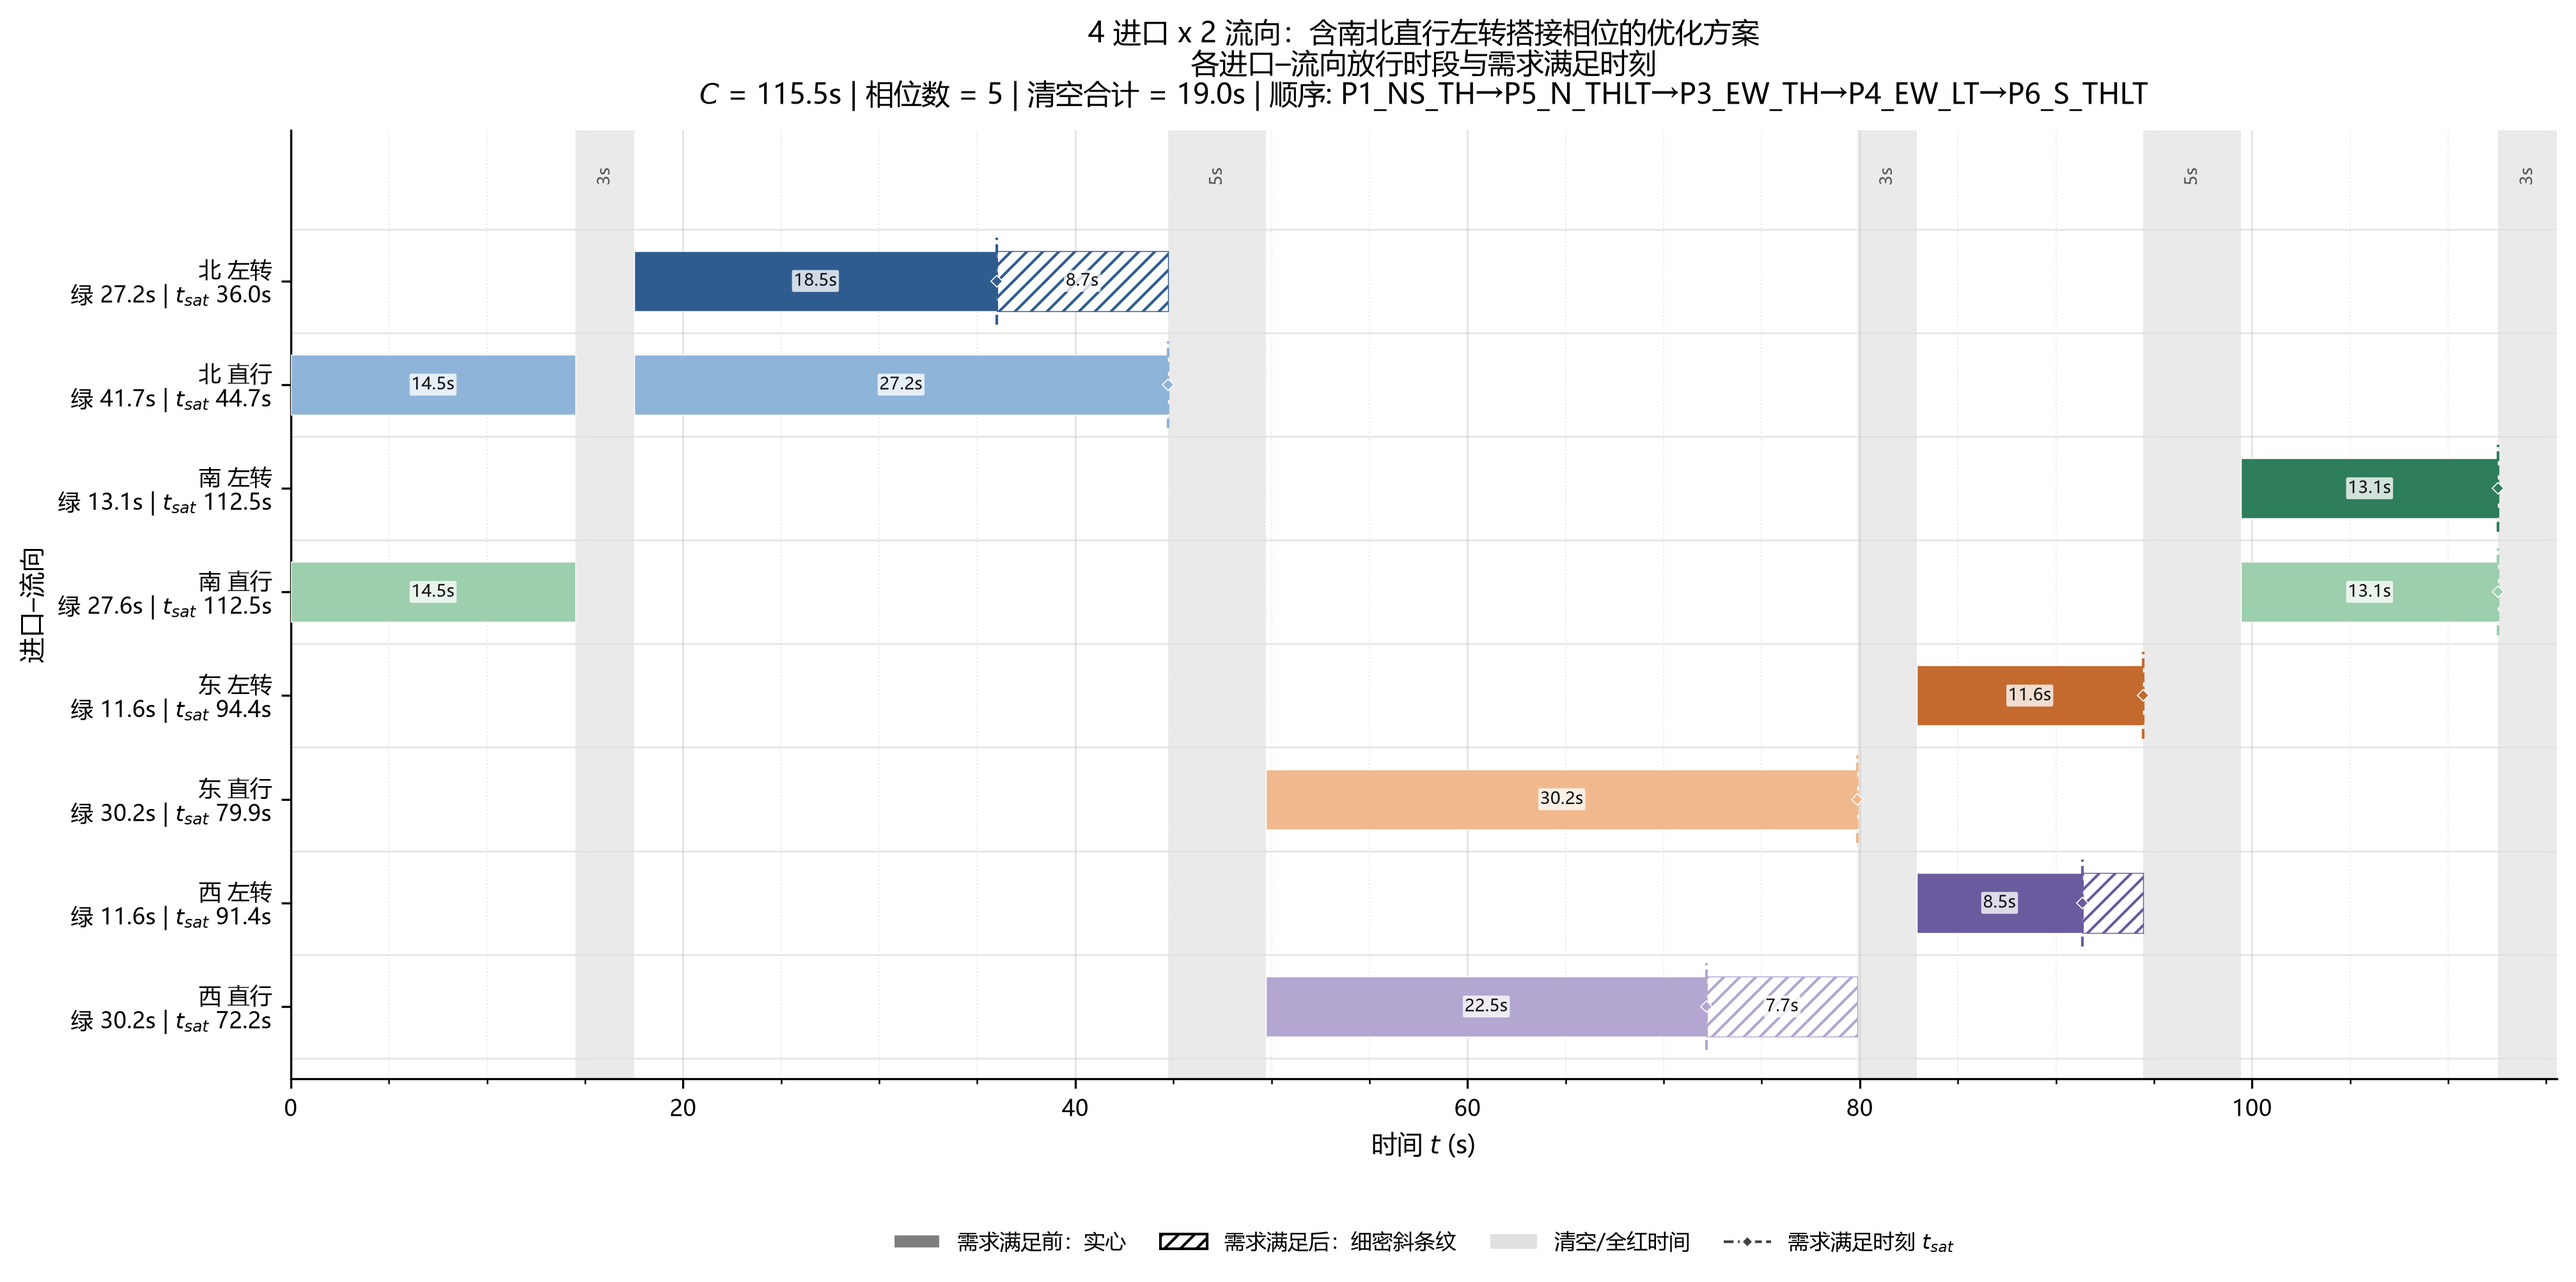
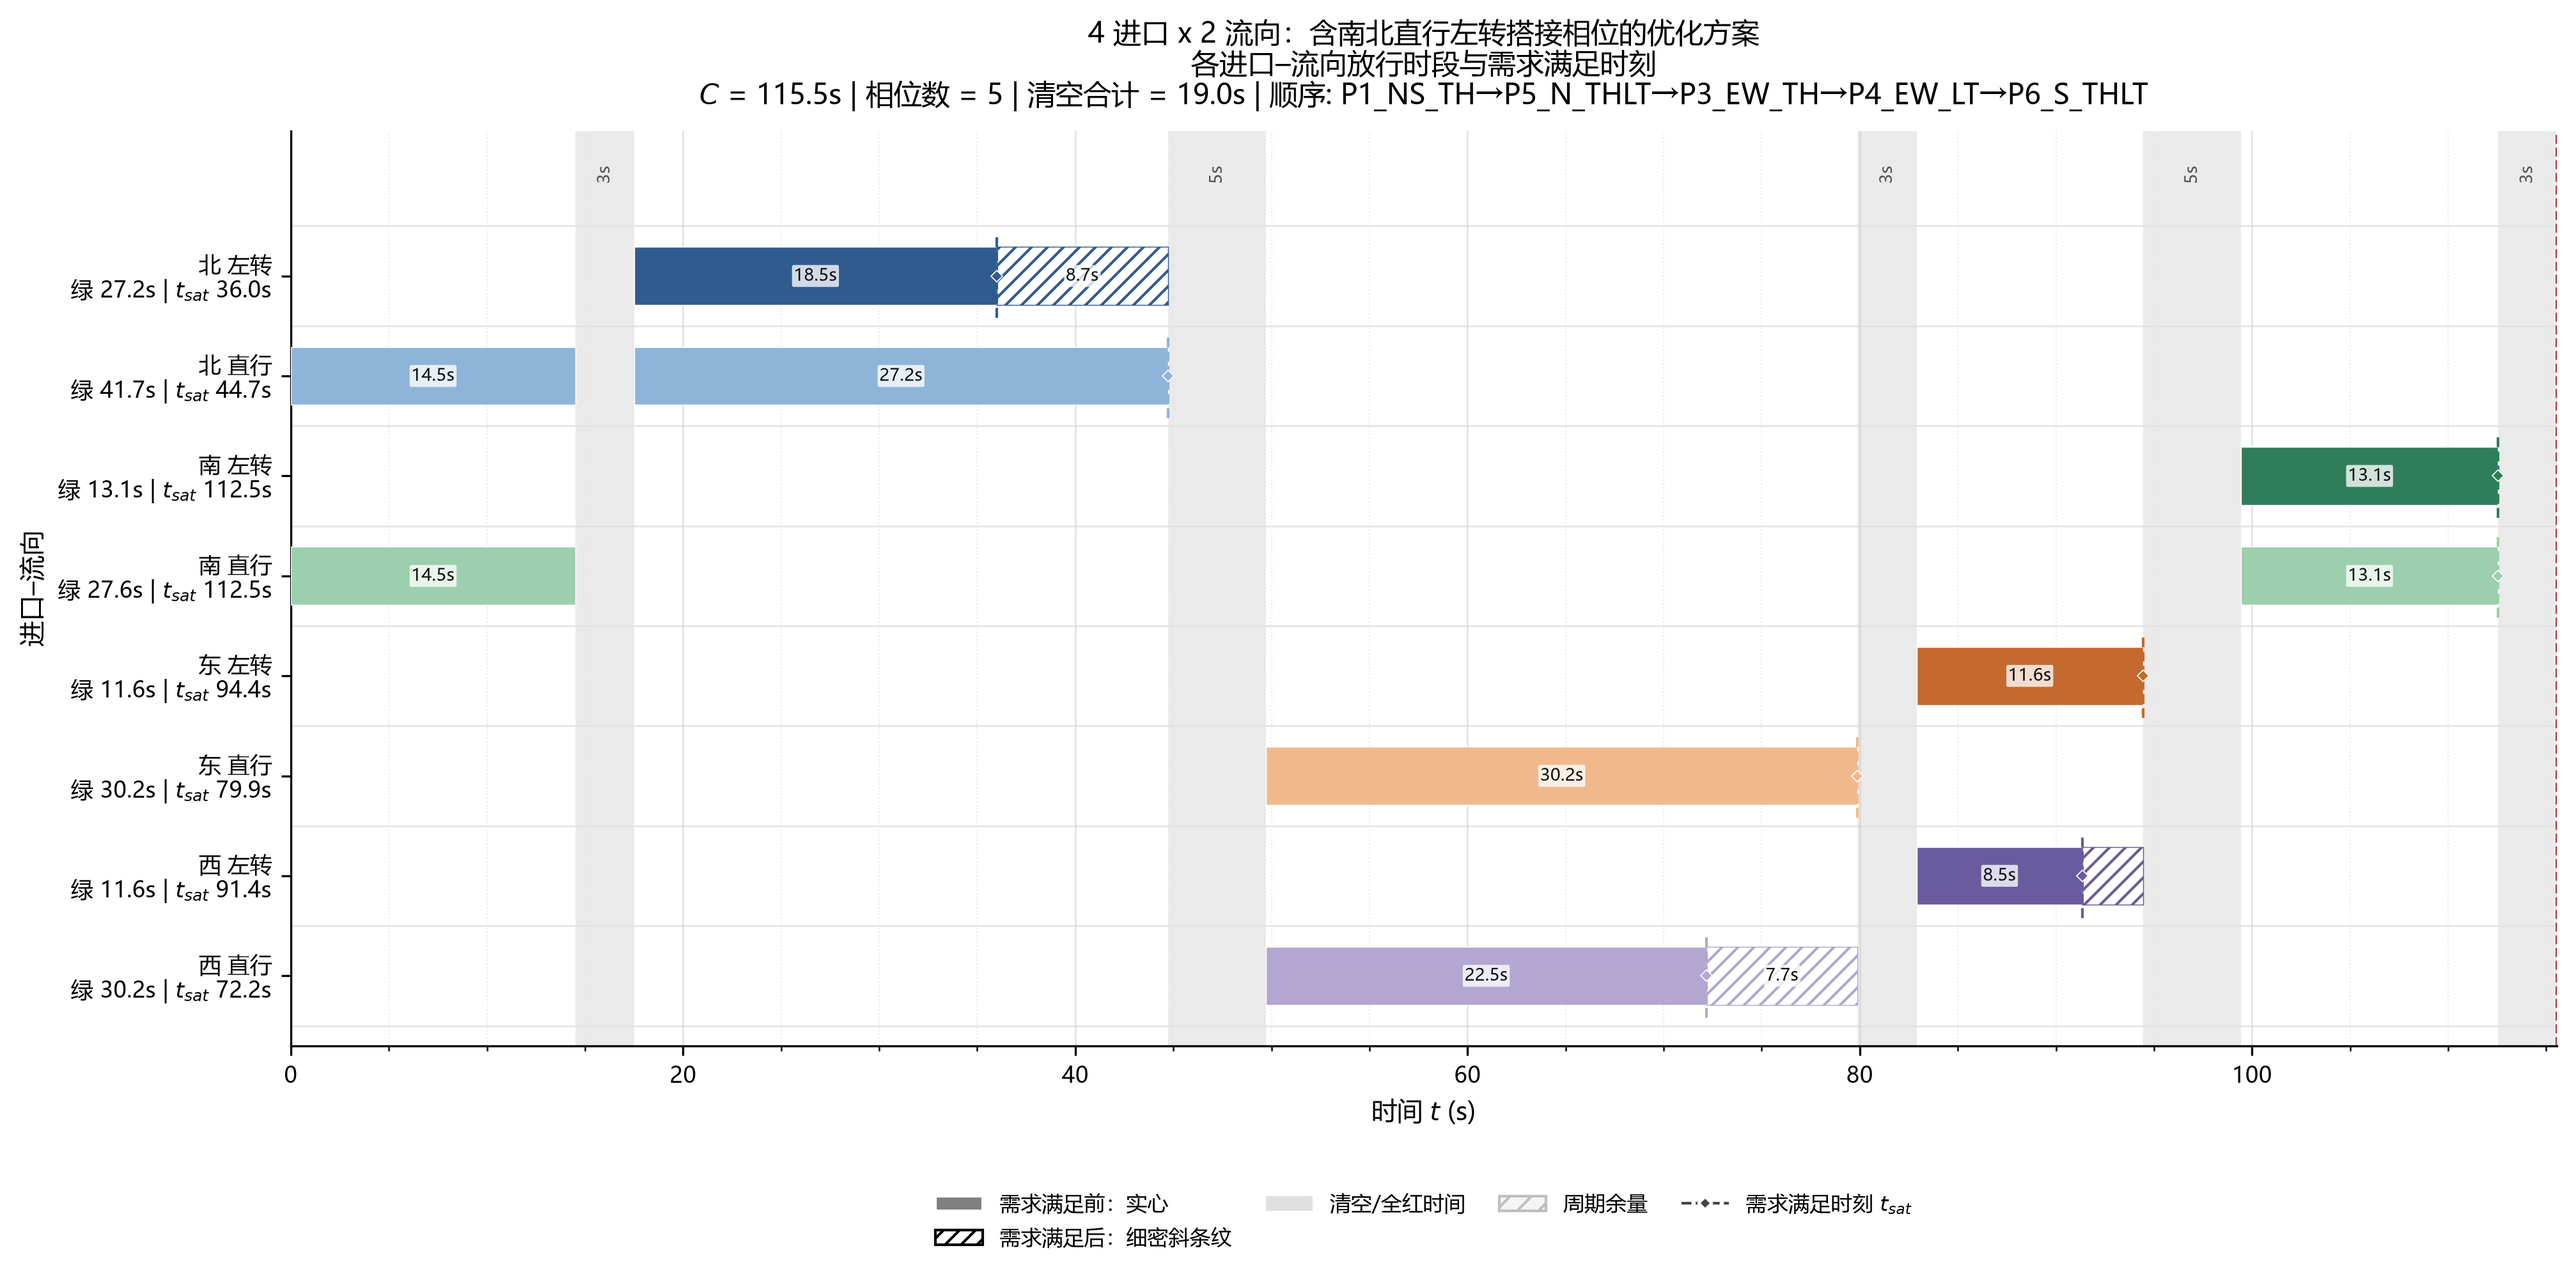
Improve variable naming in four-approach example

diff --git a/examples/four_approach_overlap_case.py b/examples/four_approach_overlap_case.py
@@ -9,7 +9,7 @@
     P4_EW_LT : 东西左转对称放行
     P5_N_THLT: 北进口直行 + 左转搭接（单进口同时放行直行与左转）
     P6_S_THLT: 南进口直行 + 左转搭接
-- 北进口需求不均衡：直行 600 veh/h，左转 250 veh/h；
+- 北进口需求不均衡：直行 650 veh/h，左转 240 veh/h；
 - 所有被选相位最小绿灯 11 s（> 10 s）。
 - 目标：字典序最小化周期（第一目标）。
 
@@ -36,135 +36,229 @@ from signal_timing.plotting import (
 )
 
 
-def build_data(include_overlap: bool = True) -> IntersectionData:
-    """构造 4 进口 x 2 流向案例；include_overlap=False 时只保留 4 个对称相位。"""
-    demands = {
+def build_intersection_data(
+    include_overlap_phases: bool = True,
+) -> IntersectionData:
+    """构造 4 进口 x 2 流向案例。
+
+    include_overlap_phases=False 时只保留 4 个对称相位。
+    """
+    movement_demands = {
         "N_left": 240.0, "N_thr": 650.0,   # 北进口直行/左转不均衡
         "S_left": 170.0, "S_thr": 430.0,
         "E_left": 150.0, "E_thr": 470.0,   # 东进口直行偏大、左转偏小
         "W_left": 110.0, "W_thr": 350.0,   # 西进口整体需求较低
     }
-    movements = {mid: Movement(mid, q) for mid, q in demands.items()}
-    c_thr, c_left = 1800.0, 1500.0  # 直行/左转饱和流率 veh/h
-
-    phases = {
-        "P1_NS_TH": Phase("P1_NS_TH", {"N_thr": c_thr, "S_thr": c_thr}),
-        "P2_NS_LT": Phase("P2_NS_LT", {"N_left": c_left, "S_left": c_left}),
-        "P3_EW_TH": Phase("P3_EW_TH", {"E_thr": c_thr, "W_thr": c_thr}),
-        "P4_EW_LT": Phase("P4_EW_LT", {"E_left": c_left, "W_left": c_left}),
+    movements_by_id = {
+        movement_id: Movement(movement_id, demand)
+        for movement_id, demand in movement_demands.items()
     }
-    if include_overlap:
-        phases["P5_N_THLT"] = Phase(
-            "P5_N_THLT", {"N_thr": c_thr, "N_left": c_left}
+
+    through_saturation_flow = 1800.0   # 直行饱和流率 veh/h
+    left_turn_saturation_flow = 1500.0  # 左转饱和流率 veh/h
+
+    candidate_phases = {
+        "P1_NS_TH": Phase(
+            "P1_NS_TH",
+            {"N_thr": through_saturation_flow, "S_thr": through_saturation_flow},
+        ),
+        "P2_NS_LT": Phase(
+            "P2_NS_LT",
+            {"N_left": left_turn_saturation_flow, "S_left": left_turn_saturation_flow},
+        ),
+        "P3_EW_TH": Phase(
+            "P3_EW_TH",
+            {"E_thr": through_saturation_flow, "W_thr": through_saturation_flow},
+        ),
+        "P4_EW_LT": Phase(
+            "P4_EW_LT",
+            {"E_left": left_turn_saturation_flow, "W_left": left_turn_saturation_flow},
+        ),
+    }
+
+    if include_overlap_phases:
+        candidate_phases["P5_N_THLT"] = Phase(
+            "P5_N_THLT",
+            {"N_thr": through_saturation_flow, "N_left": left_turn_saturation_flow},
         )
-        phases["P6_S_THLT"] = Phase(
-            "P6_S_THLT", {"S_thr": c_thr, "S_left": c_left}
+        candidate_phases["P6_S_THLT"] = Phase(
+            "P6_S_THLT",
+            {"S_thr": through_saturation_flow, "S_left": left_turn_saturation_flow},
         )
 
     # 同组相位间清空 3s，跨组 5s；所有有序对都定义，满足严格清空时间模式。
-    groups = {
+    phase_direction_groups = {
         "P1_NS_TH": "NS", "P2_NS_LT": "NS",
         "P5_N_THLT": "NS", "P6_S_THLT": "NS",
         "P3_EW_TH": "EW", "P4_EW_LT": "EW",
     }
-    lost = {}
-    for i in phases:
-        for j in phases:
-            if i != j:
-                lost[(i, j)] = 3.0 if groups[i] == groups[j] else 5.0
+    clearance_times = {}
+    for from_phase_id in candidate_phases:
+        for to_phase_id in candidate_phases:
+            if from_phase_id == to_phase_id:
+                continue
+            same_direction_group = (
+                phase_direction_groups[from_phase_id]
+                == phase_direction_groups[to_phase_id]
+            )
+            clearance_times[(from_phase_id, to_phase_id)] = (
+                3.0 if same_direction_group else 5.0
+            )
 
     return IntersectionData(
-        movements=movements,
-        phases=phases,
-        lost_time=lost,
+        movements=movements_by_id,
+        phases=candidate_phases,
+        lost_time=clearance_times,
         g_min=11.0,
         c_min=40.0,
         c_max=180.0,
     )
 
 
-def solve_case(include_overlap: bool):
-    data = build_data(include_overlap=include_overlap)
-    opt = LexicographicOptimizer(data, mip_rel_gap=0.001, time_limit=60.0)
-    result = opt.solve(allow_cycle_reduction=True)
-    return data, result
+def solve_intersection_case(include_overlap_phases: bool):
+    """构造并求解一个案例，返回 (intersection_data, optimization_result)。"""
+    intersection_data = build_intersection_data(
+        include_overlap_phases=include_overlap_phases
+    )
+    optimizer = LexicographicOptimizer(
+        intersection_data,
+        mip_rel_gap=0.001,
+        time_limit=60.0,
+    )
+    optimization_result = optimizer.solve(allow_cycle_reduction=True)
+    return intersection_data, optimization_result
 
 
-def print_result(title, data, result):
-    if result.order is None:
-        raise RuntimeError("result.order 为 None；请确认 run_ordering=True")
-    order = list(result.order)
+def print_optimization_result(
+    case_title: str,
+    intersection_data: IntersectionData,
+    optimization_result,
+) -> None:
+    """打印某个方案的关键结果和逐流向需求满足情况。"""
+    if optimization_result.order is None:
+        raise RuntimeError("optimization_result.order 为 None；请确认 run_ordering=True")
+    phase_order = list(optimization_result.order)
 
     print("=" * 78)
-    print(title)
+    print(case_title)
     print("=" * 78)
-    print(f"最终周期 C = {result.cycle:.3f} s   （第一阶段保守 C* = {result.stage1_cycle:.3f} s）")
-    print(f"选中相位   = {result.selected}")
-    print(f"相位顺序   = {' → '.join(order)}")
-    print(f"相位数     = {result.phase_count}")
-    print(f"浪费服务   = {result.waste:.2f} veh/h·s")
-    print(f"后验校验   = {'通过' if result.verification.get('passed') else '失败'}")
+    print(
+        f"最终周期 C = {optimization_result.cycle:.3f} s   "
+        f"（第一阶段保守 C* = {optimization_result.stage1_cycle:.3f} s）"
+    )
+    print(f"选中相位   = {optimization_result.selected}")
+    print(f"相位顺序   = {' → '.join(phase_order)}")
+    print(f"相位数     = {optimization_result.phase_count}")
+    print(f"浪费服务   = {optimization_result.waste:.2f} veh/h·s")
+    print(
+        f"后验校验   = "
+        f"{'通过' if optimization_result.verification.get('passed') else '失败'}"
+    )
     print("-" * 78)
     print(f"{'相位':<12s} {'绿灯(s)':>10s} {'服务流向':<28s}")
-    for p in result.selected:
-        served = ", ".join(data.phases[p].capacity.keys())
-        print(f"{p:<12s} {result.greens[p]:>10.2f} {served:<28s}")
+    for phase_id in optimization_result.selected:
+        served_movement_ids = ", ".join(
+            intersection_data.phases[phase_id].capacity.keys()
+        )
+        print(
+            f"{phase_id:<12s} "
+            f"{optimization_result.greens[phase_id]:>10.2f} "
+            f"{served_movement_ids:<28s}"
+        )
     print("-" * 78)
-    print(f"{'流向':<10s} {'需求(veh)':>12s} {'提供(veh)':>12s} {'余量(veh)':>12s} {'状态':>6s}")
-    for mid in data.movements:
-        demand = data.movements[mid].demand * result.cycle / 3600.0
-        provided = (
+    print(
+        f"{'流向':<10s} {'需求(veh)':>12s} {'提供(veh)':>12s} "
+        f"{'余量(veh)':>12s} {'状态':>6s}"
+    )
+    for movement_id in intersection_data.movements:
+        cycle_demand_veh = (
+            intersection_data.movements[movement_id].demand
+            * optimization_result.cycle
+            / 3600.0
+        )
+        provided_service_veh = (
             sum(
-                data.phases[p].capacity.get(mid, 0.0) * result.greens[p]
-                for p in order
+                intersection_data.phases[phase_id].capacity.get(movement_id, 0.0)
+                * optimization_result.greens[phase_id]
+                for phase_id in phase_order
             )
             / 3600.0
         )
-        margin = provided - demand
+        demand_margin_veh = provided_service_veh - cycle_demand_veh
+        demand_satisfied = demand_margin_veh >= -1e-6
         print(
-            f"{mid:<10s} {demand:>12.3f} {provided:>12.3f} {margin:>+12.3f} "
-            f"{'满足' if margin >= -1e-6 else '不足':>6s}"
+            f"{movement_id:<10s} {cycle_demand_veh:>12.3f} "
+            f"{provided_service_veh:>12.3f} {demand_margin_veh:>+12.3f} "
+            f"{'满足' if demand_satisfied else '不足':>6s}"
         )
     print("=" * 78)
     print()
 
 
-def main():
+def main() -> None:
     warnings.simplefilter("ignore")
 
-    data_with, result_with = solve_case(include_overlap=True)
-    data_sym, result_sym = solve_case(include_overlap=False)
-
-    print_result("方案 A：4 个对称相位 + 2 个南北直行左转搭接相位", data_with, result_with)
-    print_result("方案 B：对照组，仅 4 个对称相位", data_sym, result_sym)
-
-    cycle_gap = result_sym.cycle - result_with.cycle
-    print(
-        f"对照结论：加入南北直行左转搭接相位后，周期从 "
-        f"{result_sym.cycle:.2f}s 降至 {result_with.cycle:.2f}s，"
-        f"降幅 {cycle_gap:.2f}s（{cycle_gap / result_sym.cycle * 100:.1f}%）。"
+    data_with_overlap, result_with_overlap = solve_intersection_case(
+        include_overlap_phases=True
+    )
+    data_symmetric_only, result_symmetric_only = solve_intersection_case(
+        include_overlap_phases=False
     )
 
-    sat_times = compute_satisfaction_times(data_with, result_with)
+    print_optimization_result(
+        "方案 A：4 个对称相位 + 2 个南北直行左转搭接相位",
+        data_with_overlap,
+        result_with_overlap,
+    )
+    print_optimization_result(
+        "方案 B：对照组，仅 4 个对称相位",
+        data_symmetric_only,
+        result_symmetric_only,
+    )
+
+    cycle_reduction_seconds = (
+        result_symmetric_only.cycle - result_with_overlap.cycle
+    )
+    cycle_reduction_percent = (
+        cycle_reduction_seconds / result_symmetric_only.cycle * 100.0
+    )
+    print(
+        f"对照结论：加入南北直行左转搭接相位后，周期从 "
+        f"{result_symmetric_only.cycle:.2f}s 降至 "
+        f"{result_with_overlap.cycle:.2f}s，"
+        f"降幅 {cycle_reduction_seconds:.2f}s"
+        f"（{cycle_reduction_percent:.1f}%）。"
+    )
+
+    movement_satisfaction_times = compute_satisfaction_times(
+        data_with_overlap,
+        result_with_overlap,
+    )
     print("各进口-流向需求满足时刻：")
-    for mid, t_sat in sat_times.items():
-        print(f"  {mid:8s} t_sat = {t_sat:.2f} s" if t_sat is not None else f"  {mid:8s} 未满足")
+    for movement_id, satisfaction_time_seconds in movement_satisfaction_times.items():
+        if satisfaction_time_seconds is None:
+            print(f"  {movement_id:8s} 未满足")
+        else:
+            print(
+                f"  {movement_id:8s} "
+                f"t_sat = {satisfaction_time_seconds:.2f} s"
+            )
     print()
 
-    out_path = os.path.join(
+    gantt_output_path = os.path.join(
         os.path.dirname(os.path.abspath(__file__)),
         "output",
         "four_approach_movement_gantt.png",
     )
     plot_movement_release_gantt(
-        data_with,
-        result_with,
+        data_with_overlap,
+        result_with_overlap,
         cycles=1,
-        save_path=out_path,
+        save_path=gantt_output_path,
         show=False,
         title="4 进口 x 2 流向：含南北直行左转搭接相位的优化方案",
     )
-    print(f"新版流向甘特图已保存：{out_path}")
+    print(f"新版流向甘特图已保存：{gantt_output_path}")
 
 
 if __name__ == "__main__":
